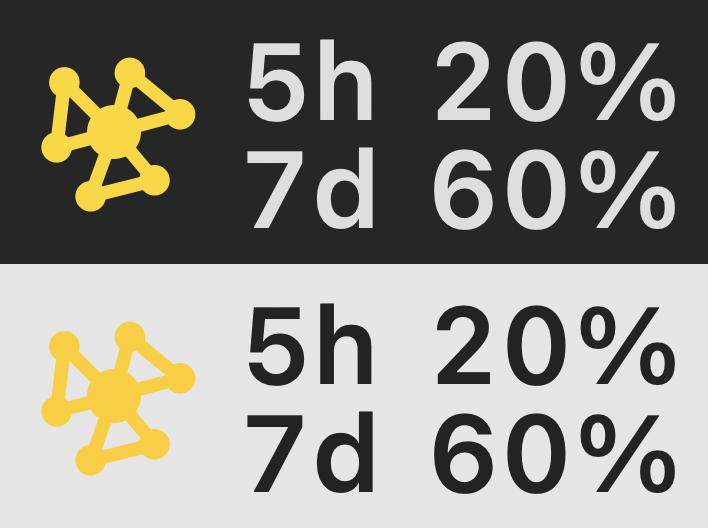
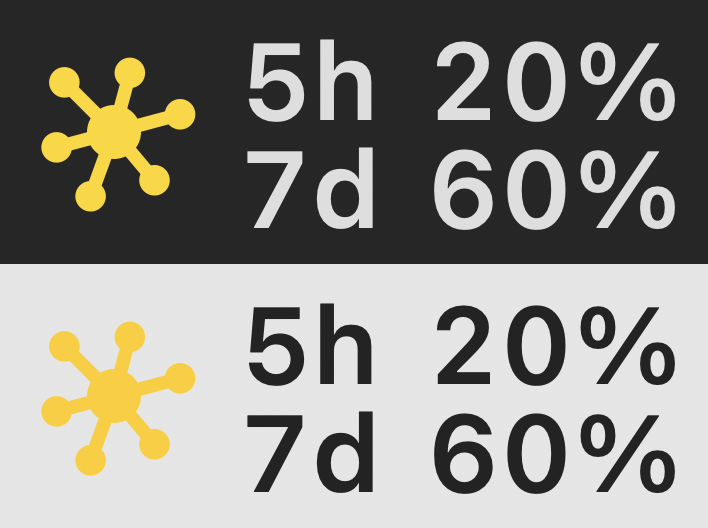
Network without outer links; a lone gauge or network at full height
The network is a hub with six spokes. With no number or projection beside it, a gauge or network leaves out the labels and fills the menu bar's height.

diff --git a/MenuBar/Sources/MenuBarImage.swift b/MenuBar/Sources/MenuBarImage.swift
@@ -451,16 +451,22 @@ enum MenuBarImage {
         // Never an empty item (nothing to click to open the popup): settings saved before the
         // popup blocked such combinations show the plain number.
         let hasDot = dots && rows.contains { dotColor($0, o) != nil }
-        if glyph == nil, !hasDot, textRows.allSatisfy({ $0[1].isEmpty && $0[2].isEmpty }) {
+        let noValues = textRows.allSatisfy { $0[1].isEmpty && $0[2].isEmpty }
+        if glyph == nil, !hasDot, noValues {
             var shown = o; shown.percent = true
             textRows = lines(rows.map { cells($0, shown, label: o.labels) }, shown)
         }
+        // A gauge or network with no number beside it stands alone: labels ("5h", "7d") with no value
+        // say nothing next to a single glyph.
+        if glyph != nil, noValues { textRows = textRows.map { _ in ["", "", "", ""] } }
         let small = textRows.count > 1
         let fonts = Columns.fonts(size: small ? 9 : 11, weight: compactWeight(stacked: small))
         let columns = Columns(textRows, leftAligned: [true, false, false, false], fonts: fonts)
         let dot: CGFloat = small ? 4 : 5
-        let gauge = glyph == .icon ? gaugeImage(rows, o, pointSize: small ? 15 : 14)
-            : glyph == .splash ? splashImage(rows, o, size: small ? 15 : 14) : nil
+        // Alone (no text beside it) the glyph fills the menu bar's height, like the system's own icons.
+        let glyphSize: CGFloat = columns.width == 0 ? 17 : small ? 15 : 14
+        let gauge = glyph == .icon ? gaugeImage(rows, o, pointSize: glyphSize)
+            : glyph == .splash ? splashImage(rows, o, size: glyphSize) : nil
         let dotSpace = gauge.map { $0.size.width + (columns.width > 0 ? 3 : 0) } ?? (hasDot ? dot + 2 : 0)
         let size = NSSize(width: max(dotSpace + columns.width, dot), height: height)
         let rowHeight = small ? Self.rowHeight : height
@@ -507,8 +513,8 @@ enum MenuBarImage {
         }
     }
 
-    /// The network: a hub joined to six nodes at uneven distances, some nodes also linked to their
-    /// neighbour. A generic network sign of our own, deliberately not a starburst like the Claude logo.
+    /// The network: a hub joined to six nodes at uneven distances. A generic network sign of our own,
+    /// deliberately not a starburst like the Claude logo.
     static func networkPieces(in rect: NSRect) -> (lines: NSBezierPath, nodes: [NSBezierPath]) {
         let w = rect.width
         let c = NSPoint(x: rect.midX, y: rect.midY)
@@ -520,7 +526,6 @@ enum MenuBarImage {
         let lines = NSBezierPath()
         lines.lineWidth = max(1, w * 0.075); lines.lineCapStyle = .round
         for n in nodes { lines.move(to: c); lines.line(to: n) }
-        for (i, j) in [(0, 1), (2, 3), (4, 5)] { lines.move(to: nodes[i]); lines.line(to: nodes[j]) }
         func dot(_ p: NSPoint, _ r: CGFloat) -> NSBezierPath { NSBezierPath(ovalIn: NSRect(x: p.x - r, y: p.y - r, width: 2 * r, height: 2 * r)) }
         return (lines, [dot(c, w * 0.15)] + nodes.map { dot($0, w * 0.085) })
     }

diff --git a/README.md b/README.md
@@ -22,7 +22,7 @@ Each part is a setting in the popup (see [Settings](#settings)), shown enlarged 
 
 | Bars | Circle | Dots | Gauge | Network | Indicator off |
 |---|---|---|---|---|---|
-| <img src="docs/screenshots/menubar-pro-max.png" width="140" alt="Menu bar item with 5h and 7d bars at 20% (green, under pace) and 60% (yellow, ahead of pace), each with a pace tick, on a dark and a light menu bar"> | <img src="docs/screenshots/menubar-compact.png" width="110" alt="Circle style: two rings, the week outside in yellow and the session inside in green, with 5h 20% and 7d 60% beside them"> | <img src="docs/screenshots/menubar-dots.png" width="94" alt="Dots style: no bars, 5h 20% and 7d 60% as text, each after a dot in its pace colour, green and yellow"> | <img src="docs/screenshots/menubar-gauge.png" width="126" alt="Gauge indicator: a gauge in yellow, the colour of the limit furthest ahead of pace, its needle at about two thirds, before 5h 20% and 7d 60%"> | <img src="docs/screenshots/menubar-network.png" width="118" alt="Network indicator: a small hub with linked nodes in yellow, the colour of the limit furthest ahead of pace, before 5h 20% and 7d 60%"> | <img src="docs/screenshots/menubar-text.png" width="82" alt="Indicator off: 5h 20% and 7d 60% as text only, no bars and no colour"> |
+| <img src="docs/screenshots/menubar-pro-max.png" width="140" alt="Menu bar item with 5h and 7d bars at 20% (green, under pace) and 60% (yellow, ahead of pace), each with a pace tick, on a dark and a light menu bar"> | <img src="docs/screenshots/menubar-compact.png" width="110" alt="Circle style: two rings, the week outside in yellow and the session inside in green, with 5h 20% and 7d 60% beside them"> | <img src="docs/screenshots/menubar-dots.png" width="94" alt="Dots style: no bars, 5h 20% and 7d 60% as text, each after a dot in its pace colour, green and yellow"> | <img src="docs/screenshots/menubar-gauge.png" width="126" alt="Gauge indicator: a gauge in yellow, the colour of the limit furthest ahead of pace, its needle at about two thirds, before 5h 20% and 7d 60%"> | <img src="docs/screenshots/menubar-network.png" width="118" alt="Network indicator: a small hub with six spokes to round nodes, in yellow, the colour of the limit furthest ahead of pace, before 5h 20% and 7d 60%"> | <img src="docs/screenshots/menubar-text.png" width="82" alt="Indicator off: 5h 20% and 7d 60% as text only, no bars and no colour"> |
 
 | Mono | Alerts | Projection on | Projection on, Number off | Only the 5 h limit |
 |---|---|---|---|---|

diff --git a/docs/DECISIONS.md b/docs/DECISIONS.md
@@ -50,7 +50,8 @@ options that were ruled out, so they aren't tried again.
   room read as a gap, and the width changes with the numbers anyway. The dot is small (4 pt stacked, 5 pt on
   one line, 2 pt gap). Gauge (saved as `icon`) is Apple's gauge symbol (also shown when there's no data),
   tinted like the worst limit, its needle at the highest use. Network (saved as `splash`, after a short-lived
-  paint splash) is our own drawing: a hub with six linked nodes, in the same colour. Neither is, or imitates,
+  paint splash) is our own drawing: a hub with six spokes to round nodes, in the same colour. Without numbers beside
+  it, a gauge or network stands alone at the menu bar's full height (labels with no value are left out). Neither is, or imitates,
   the Claude logo: it's Anthropic's mark, and a lookalike would suggest an official app. With Dots or Off nothing else is sure to show, so the popup greys out combinations that would
   leave the item empty (nothing to click); settings saved before that show the plain number. The palette has
   its own row (Colours), hidden with Off.
